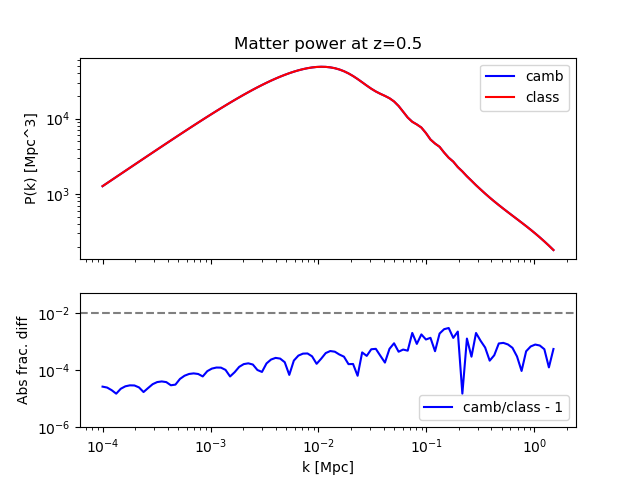
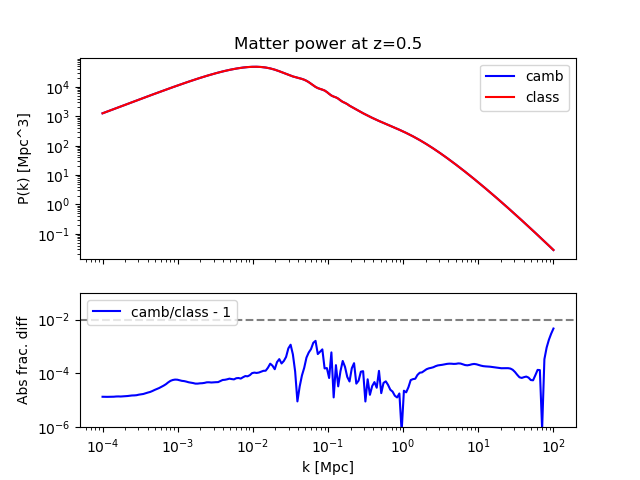
Update code

diff --git a/camb_vs_class_Pk.py b/camb_vs_class_Pk.py
@@ -12,18 +12,16 @@
 #
 # python camb_vs_class_Pk.py LCDM lin
 
+import time
+start_program = time.time()
+
 import numpy as np
 import matplotlib.pyplot as plt
 import os
 import sys
-from scipy.interpolate import interp1d
-
 import camb
-print('Using CAMB %s installed at %s'%(camb.__version__,os.path.dirname(camb.__file__)))
-
 import classy
 from classy import Class
-print('Using CLASS %s installed at %s'%(classy.__version__,os.path.dirname(classy.__file__)))
 
 ########################################
 # Read terminal arguments
@@ -71,20 +69,20 @@ z_test = cosmo_params[5]
 omega_b = Omega_b*h**2
 omega_cdm = Omega_cdm*h**2
 
-num_massive_neutrinos = 0
-mnu = 0.0
-
-k = np.logspace(-4, np.log10(1.5), num=100) # Mpc^-1
-
-kmax = 50.0
+pk_max = 130.0
+kmax = 100.0
 
 ########################################
 #  CAMB
 ########################################
 
+start = time.time()
+
+print('Using CAMB %s installed at %s'%(camb.__version__,os.path.dirname(camb.__file__)))
+
 pars = camb.set_params(H0=100*h, ombh2=omega_b, omch2=omega_cdm,  As=A_s, ns=n_s, w=w0, halofit_version='mead', HMCode_A_baryon=c_min, HMCode_eta_baryon=eta_0,
-     num_massive_neutrinos=num_massive_neutrinos, mnu=mnu)
-pars.set_matter_power(redshifts=[z_test], kmax=kmax+50) # manually setting kmax to a larger value for better interpolation
+     num_massive_neutrinos=0, mnu=0.0)
+pars.set_matter_power(redshifts=[z_test], kmax=pk_max)
 
 if (lin_or_nl == 'lin' or lin_or_nl == 'linear'):
     # linear power spectrum
@@ -95,13 +93,20 @@ elif (lin_or_nl == 'nl' or lin_or_nl == 'nonlinear'):
     pars.NonLinear = camb.model.NonLinear_both
 
 results = camb.get_results(pars)
-kh, z, pk_h = results.get_matter_power_spectrum(minkh=1e-5, maxkh=kmax+20.0, npoints=300) # manually setting minkh and maxkh to a wider range for better interpolation
-camb_pk = interp1d(kh*h, pk_h[0]/h**3)
-P_camb = np.array([camb_pk(ki) for ki in k])
+kh, z, pk_h = results.get_matter_power_spectrum(minkh=1e-4/h, maxkh=kmax/h, npoints=200)
+k = kh*h # Mpc^-1
+P_camb = pk_h[0]/h**3
+
+end = time.time()
+print('Time taken for execution of CAMB (seconds):', end - start) 
 
 ########################################
 #  CLASS
 ########################################
+
+start = time.time()
+
+print('\nUsing CLASS %s installed at %s'%(classy.__version__,os.path.dirname(classy.__file__)))
 
 commonsettings_nl  = {
     'h':h,
@@ -113,7 +118,7 @@ commonsettings_nl  = {
     'Omega_Lambda':0.0,
     'w0_fld':w0,
     'output':'mPk',
-    'P_k_max_1/Mpc':kmax,
+    'P_k_max_1/Mpc':pk_max,
     'z_max_pk':z_test + 0.5, # manually setting this to larger than the desired redshift for better interpolation
     'non linear':'hmcode',
     'eta_0':eta_0,
@@ -130,6 +135,9 @@ if (lin_or_nl == 'lin'):
 elif (lin_or_nl == 'nl'):
     # nonlinear power spectrum
     P_class = np.array([cosmo_class.pk(ki, z_test) for ki in k])
+
+end = time.time()
+print('Time taken for execution of CLASS (seconds):', end - start) 
 
 ########################################
 #  Plots
@@ -153,7 +161,10 @@ ax.set_xlabel('k [Mpc]')
 ax.set_ylabel('Abs frac. diff')
 ax.set_xscale('log')
 ax.set_yscale('log')
-ax.set_ylim([1e-6,5e-2])
-ax.legend(loc='lower right')
+ax.set_ylim([1e-6,1e-1])
+ax.legend(loc='upper left')
 
 plt.savefig('./plots/'+cosmology_name+'_'+lin_or_nl+'.png')
+
+end_program = time.time()
+print('\nTime taken for execution of the whole script (seconds):', end_program - start_program) 
